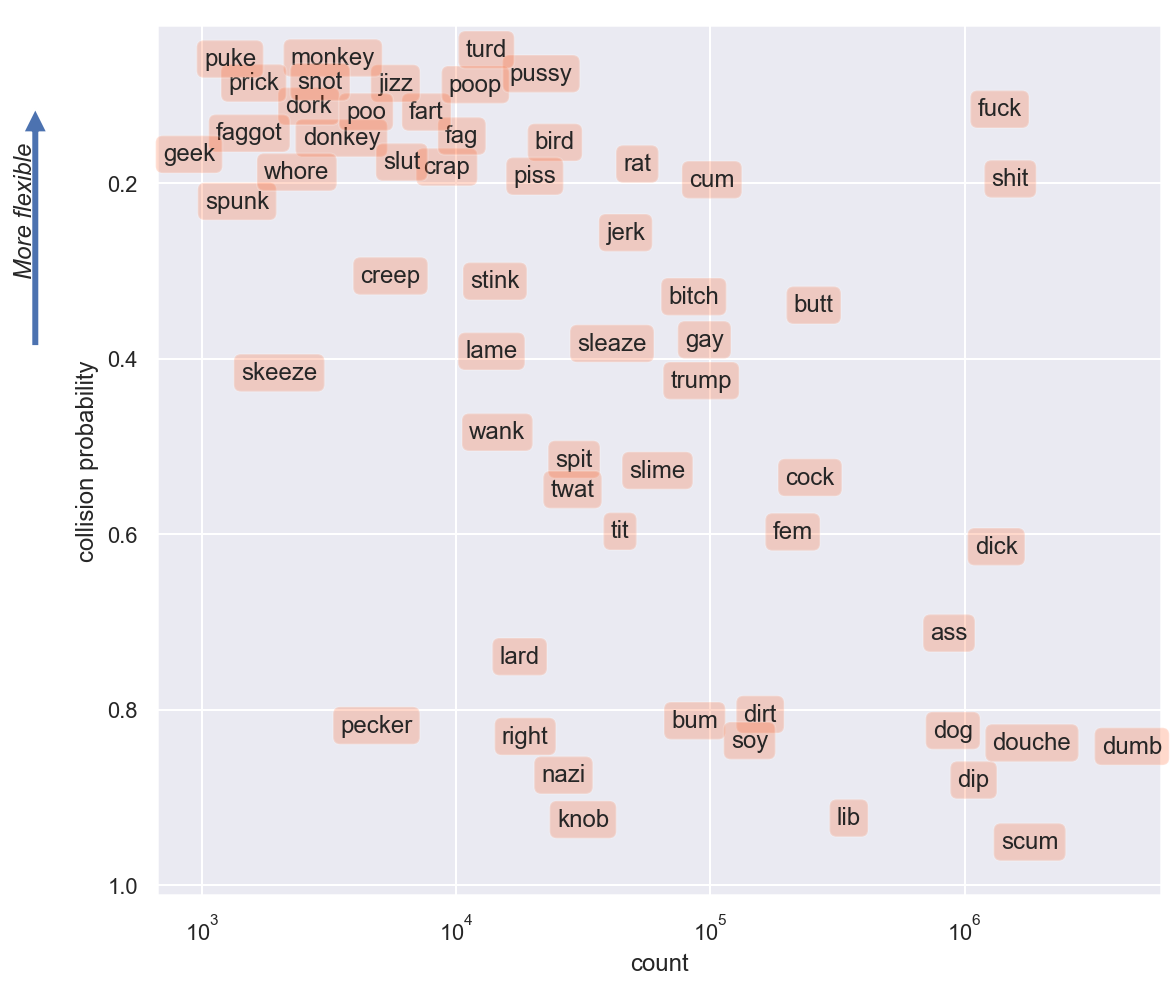
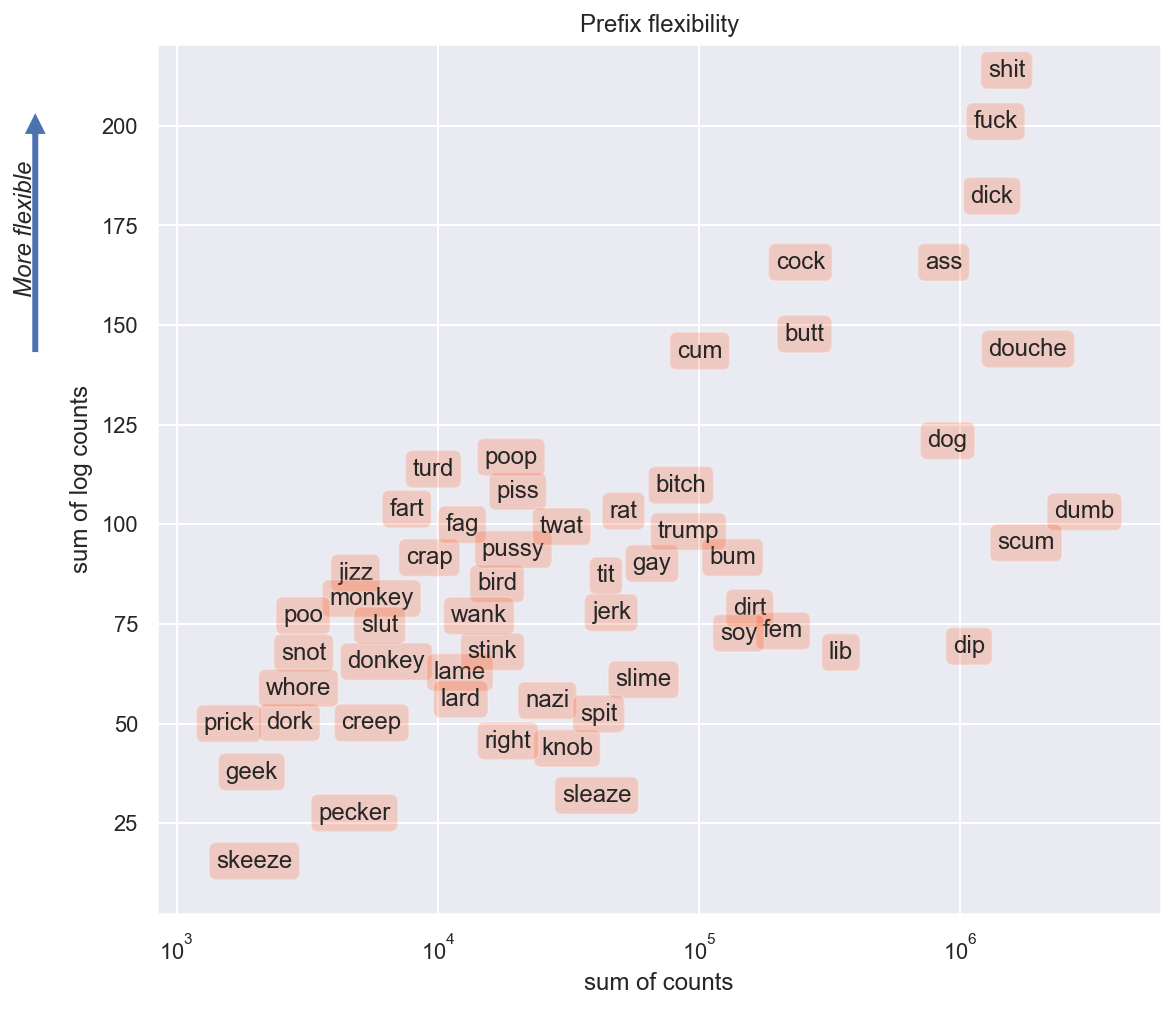
Rewrite a couple sections of compound pejoratives post

diff --git a/_posts/2021-02-02-compound-curse-words.md b/_posts/2021-02-02-compound-curse-words.md
@@ -10,17 +10,19 @@ excerpt: "What can Reddit comment data tell us about the rules governing the for
 
 <!-- Notes from 06/10 rereading:
 Prose:
+- James notes
+    - collision probability
 - Flexibility vignette doesn't have that much payoff. Can maybe cut, or shrink? (Esp. because these plots have the most offensive terms in the whole post - faggot/fag, cunt)
     - maybe think about a frequency threshold to exclude fag/faggot? Don't want it to become a distraction.
     - also, should scatterplots have titles or smth to make it clearer which is which?
-- I wonder if Pudding might be interested? There are some places where scrollytelling and interactivity would really shine.
-- hmmm, maybe drop/replace "stick" suffix from matrix? It mostly appears in confounders "dipstick" and "fuckstick". Actually, nvm, looks like both are mostly used pejoratively by a strong margin.
+    - "all 66"
 - draft text for reddit/twitter posts
 - tighten up ending?
+- gemination
 
 Technical:
-- add thumbnail, excerpt
 - generate a captioned version of matrix for twitter/reddit
+- test on mobile
 
 -->
 
@@ -41,7 +43,7 @@ If only we had some concrete data on how these pieces fit together...
 
 ## Introducing the Reddit compound pejorative dataset
 
-I curated lists of around 70 prefixes and 70 suffixes (collectively, "affixes") that can be flexibly combined to form insulting compounds, based on a scan of Wiktionary's [English derogatory terms](https://en.wiktionary.org/wiki/Category:English_derogatory_terms) category. The terms covered a wide range of domains, including:
+I collected lists of around 70 prefixes and 70 suffixes (collectively, "affixes") that can be flexibly combined to form insulting compounds, based on a scan of Wiktionary's [English derogatory terms](https://en.wiktionary.org/wiki/Category:English_derogatory_terms) category. The terms covered a wide range of domains, including:
 - scatology (*fart-*, *poop-*)
 - political epithets (*lib-*, *Trump-*)
 - food (*-waffle*, *-burger*)
@@ -51,7 +53,7 @@ I curated lists of around 70 prefixes and 70 suffixes (collectively, "affixes") 
 
 Most terms were limited to appearing in one position. For example, while *-face* readily forms pejorative compounds as a suffix, it fails to produce felicitous compounds as a prefix (*facewad*? *faceclown*? *facefart*?).
 
-Taking the product of these lists gives around 4,800 possible A+B combinations. I scraped all Reddit comments from 2006 to the end of 2020, and counted the number of comments containing each.
+Taking the product of these lists gives around 4,800 possible A+B combinations. Most are of a pejorative character, though some false positives slipped in (e.g. *dogpile*, *spitballs*). I scraped all Reddit comments from 2006 to the end of 2020, and counted the number of comments containing each.
 
 As a corpus, Reddit has the virtue of being uninhibited in its profanity, and on the cutting edge of new coinages. For example, Google Books Ngram Viewer, which indexes the majority of all books published in English up to 2019, [gives no results](https://books.google.com/ngrams/graph?content=fuckwaffle) for *fuckwaffle*, whereas the term has been used in 1,096 Reddit comments.
 
@@ -71,21 +73,31 @@ The rows and columns are sorted by total frequency. Of the 400 cells here, only 
 
 ## Flexible and inflexible components
 
-One of the first things that sticks out from the above visualization is that some affixes are much more flexible (or, to use a term of art from linguistics, ["productive"](https://en.wikipedia.org/wiki/Productivity_(linguistics))) than others. Some rows have most of their weight concentrated on a single cell -- for example, *scum-* mixes with *-bag* far more readily than any other suffix, and the *-wit* column is mostly dominated by *fuckwit*. But others have their weight more evenly spread out. Prefixes like *fuck-*, *shit-* and *dick-* are extraordinarily flexible, and have non-trivial co-occurrences with all 20 suffixes on display. Suffixes like *-bag*, *-face* and *-head* also seem to be extremely productive.
+One of the first things that sticks out from the above visualization is that some affixes are much more flexible (or, to use a term of art from linguistics, ["productive"](https://en.wikipedia.org/wiki/Productivity_(linguistics))) than others. Some rows have most of their weight concentrated on a single cell -- for example, *dirt-* strongly combines with *-bag*, but not much else. Others, like *fuck-* and *dick-*, have significant co-occurrences with almost all suffixes.
 
-We can operationalize this concept of an affix's "flexibility" using the [collision probability](https://en.wikipedia.org/wiki/R%C3%A9nyi_entropy#Collision_entropy) metric (also known as "collision entropy", or "Rényi entropy"), which is simply the answer to the question: if I randomly pick two terms using this affix, what are the chances they will be the same? The higher the collision probability, the less flexible the affix.
+I experimented with a few metrics for quantifying this notion of an affix's "flexibility" (including measures of statistical diversity like Shannon entropy). The one that I found best matched my intution was simply the sum of the logarithms of the counts. You can think of this as the total amount of "redness" of an affix's row or column in the above matrix visualization.
 
-For example, *asshat* comprises 98.7% of the occurrences of the suffix *-hat* in our dataset, so the collision probability for *-hat* is at least .987<sup>2</sup> = 97.4% (the probability that when we pick two *-hat* words, we get two *asshat*s).
 
-On the other hand, the much more flexible suffix *-fuck* has a much lower collision probability of 25.5% (with an 18.4% chance of colliding on *dumbfuck*, 4.8% on *bumfuck*, 1.3% on *buttfuck*, and smaller contributions from a variety of others).
+To take a toy example:
 
-The scatterplot below shows frequency vs. flexibility for all 66 prefixes.
+|           | fart | head | stick | breath |
+|:----------|:-----|:-----|:------|:-------|
+| **butt**  |  100 | 100,000 | 10 |  1,000 |
+| **dip**   |  1   |  10  | 1,000,000 | 1  |
+
+Here the total frequency of the prefix *dip* is far greater than that of *butt*, but its "log sum" is log(1) + log(10) + log(1,000,000) + log(1) = 0 + 1 + 6 + 0 = 7, which is less than *butt*'s, which is 2 + 5 + 1 + 3 = 11. The contribution to this score from any single high frequency compound is subject to greatly diminishing returns, so it pays to diversify.
+
+The scatter plot below shows total frequency vs. this log sum metric for most of the prefixes in the dataset (including many not included in the matrix above):
 
 ![png](/assets/compound_curses/prefix_collisions.png)
 
-Here's the same thing for suffixes. The most flexible affixes tend to be ones with relatively low total frequency (e.g. *monkey-*, *fart-*, *-boat*, *-brains*). Among high-frequency affixes, *fuck* is the top-ranking prefix *and* suffix.
+*shit-* and *fuck-* are clear standouts. But we should also give credit to prefixes like *turd-* and *poop-* which are punching far above their weight, outgunning prefixes which are orders of magnitude above them in total frequency, like *dumb-*, *scum-*, and *dip-*.
+
+Here's the same thing for suffixes:
 
 ![png](/assets/compound_curses/suffix_collisions.png)
+
+The dynamic duo of *shit* and *fuck* also put up a strong showing in their capacity as suffixes, though *-face* clearly takes the cake as the most prolifically diverse suffix.
 
 ## Are the dictionaries keeping up?
 
@@ -97,17 +109,17 @@ The presence of a Wiktionary entry tracks pretty well with a term's popularity, 
 
 ### Missing gems
 
-Below are some more frequent compounds not in Wiktionary, sorted by count:
+Below are some of the most frequent compounds *not* in Wiktionary, sorted by count:
 
 {% include compound_curses/missing_terms_table.md %}
 
-The term *gaybro* originates with [a Reddit community](https://www.reddit.com/r/gaybros/), so its frequency on Reddit is probably not representative of its wider usage. But it is [attested](https://www.theatlantic.com/entertainment/archive/2013/08/the-tv-show-thats-maybe-too-gay-for-australia-but-perfect-for-america/278255/) in [plenty](https://slate.com/news-and-politics/2015/05/can-you-be-homosexual-without-being-gay-the-future-of-cruising-drag-and-camp-in-a-post-closet-world.html) of [other](https://www.vice.com/en/article/ev55y4/when-toxic-masculinity-infects-our-queer-spaces-we-all-lose) places (in contexts that don't even refer to Reddit), and so definitely meets Wiktionary's [criteria for inclusion](https://en.wiktionary.org/wiki/Wiktionary:Criteria_for_inclusion) in the dictionary.
+There are a couple odd entries here. *femnazi* is likely just a misspelling of *[feminazi](https://en.wiktionary.org/wiki/feminazi)*. *dumbbitch* is on the list because it was actually a keyword on the [/r/fffffffuuuuuuuuuuuu/](https://www.reddit.com/r/fffffffuuuuuuuuuuuu/) subreddit, used to generate the [Yao Ming reaction face](https://knowyourmeme.com/memes/yao-ming-face-bitch-please#fn14) in comments, a stock rage comic element. (If none of that meant anything to you, maybe ask a millennial male relative when the narwhal bacons.)
 
-*dumbbitch* and *femnazi* strike me as a bit odd. It's possible they're largely just typos for *dumb bitch* and *[feminazi](https://en.wiktionary.org/wiki/feminazi)*, respectively, but it's hard to determine from context.
+But the others seem like genuine oversights -- words which ought to be included in a "complete" lexicon of the English language, and which are in sufficiently widespread use to satisfy Wiktionary's [criteria for inclusion](https://en.wiktionary.org/wiki/Wiktionary:Criteria_for_inclusion).
 
-The rest look like fairly straightforward oversights. Interestingly, Wiktionary did once have an entry for *[assbag](https://en.wiktionary.org/wiki/assbag)*, but it was deleted by an admin in 2009 with the reason "[Fatuous](https://en.wiktionary.org/wiki/fatuous) entry". (But we can't judge this too harshly without knowing what the entry looked like at the time. It might have just been some silly vandalism like "*(colloquial)* My math teacher, Mr. Lowell".)
+Interestingly, Wiktionary did once have an entry for *assbag*, but it was [deleted by an admin in 2009](https://en.wiktionary.org/w/index.php?title=Special:Log&logid=2917072) with the reason "Fatuous entry". (But we can't judge this too harshly without knowing what the entry looked like at the time. It might have just been some silly vandalism like "*(colloquial)* My math teacher, Mr. Lowell".)
 
-It's worth noting that Green's Dictionary of Slang, another excellent free online dictionary, has entries for *[dicknose](https://greensdictofslang.com/entry/7xn3mmi#3tbcbxi)*  and *[ass-bag](https://greensdictofslang.com/entry/ywlso5i#7wqdpoy)*, defining both as general terms of abuse.
+It's worth noting that Green's Dictionary of Slang, another excellent free online dictionary, does have entries for *[dicknose](https://greensdictofslang.com/entry/7xn3mmi#3tbcbxi)*  and *[ass-bag](https://greensdictofslang.com/entry/ywlso5i#7wqdpoy)*, defining both as general terms of abuse. It also defines *[shitrag](https://greensdictofslang.com/entry/2jwxjqa#4xls6aq)* as "a third-rate publication" (it also seems to be commonly used as a general term of abuse, on Reddit and elsewhere). But on the whole, Wiktionary's coverage seems to be stronger -- Green's is missing a number of high-frequency compounds which Wiktionary does include, such as *twatwaffle*, *libtard*, or *fucknugget*. Green's is even missing *shitlord*, which is one of the top 10 compounds in the dataset!
 
 ### Words Wiktionary maybe *shouldn't* have
 
@@ -115,7 +127,7 @@ On the other hand, there are a few words in Wiktionary which are vanishingly rar
 
 {% include compound_curses/rare_wikt_terms_table.md %}
 
-Of course, just because they're rare on Reddit doesn't mean they weren't in common use at some time and place. (Though I'm skeptical of *homowhore*. A google books search finds only two results, one of which is a [scanno](https://en.wiktionary.org/wiki/scanno) for *somewhere*.)
+Of course, just because they're rare on Reddit doesn't mean they weren't in common use at some time and place. (Though I'm skeptical of some of these. For example, a Google Books search for *homowhore* finds only two results, one of which is a [scanno](https://en.wiktionary.org/wiki/scanno) for *somewhere*.)
 
 ## The politics of pejoration
 

diff --git a/_includes/compound_curses/missing_terms_table.md b/_includes/compound_curses/missing_terms_table.md
@@ -1,6 +1,5 @@
 | term                                                  | count   |
 |:------------------------------------------------------|:--------|
-| [gaybro](https://en.wiktionary.org/wiki/gaybro)       | 12,267  |
 | [shitrag](https://en.wiktionary.org/wiki/shitrag)     | 7,295   |
 | [assbag](https://en.wiktionary.org/wiki/assbag)       | 6,883   |
 | [titfucker](https://en.wiktionary.org/wiki/titfucker) | 6,827   |
